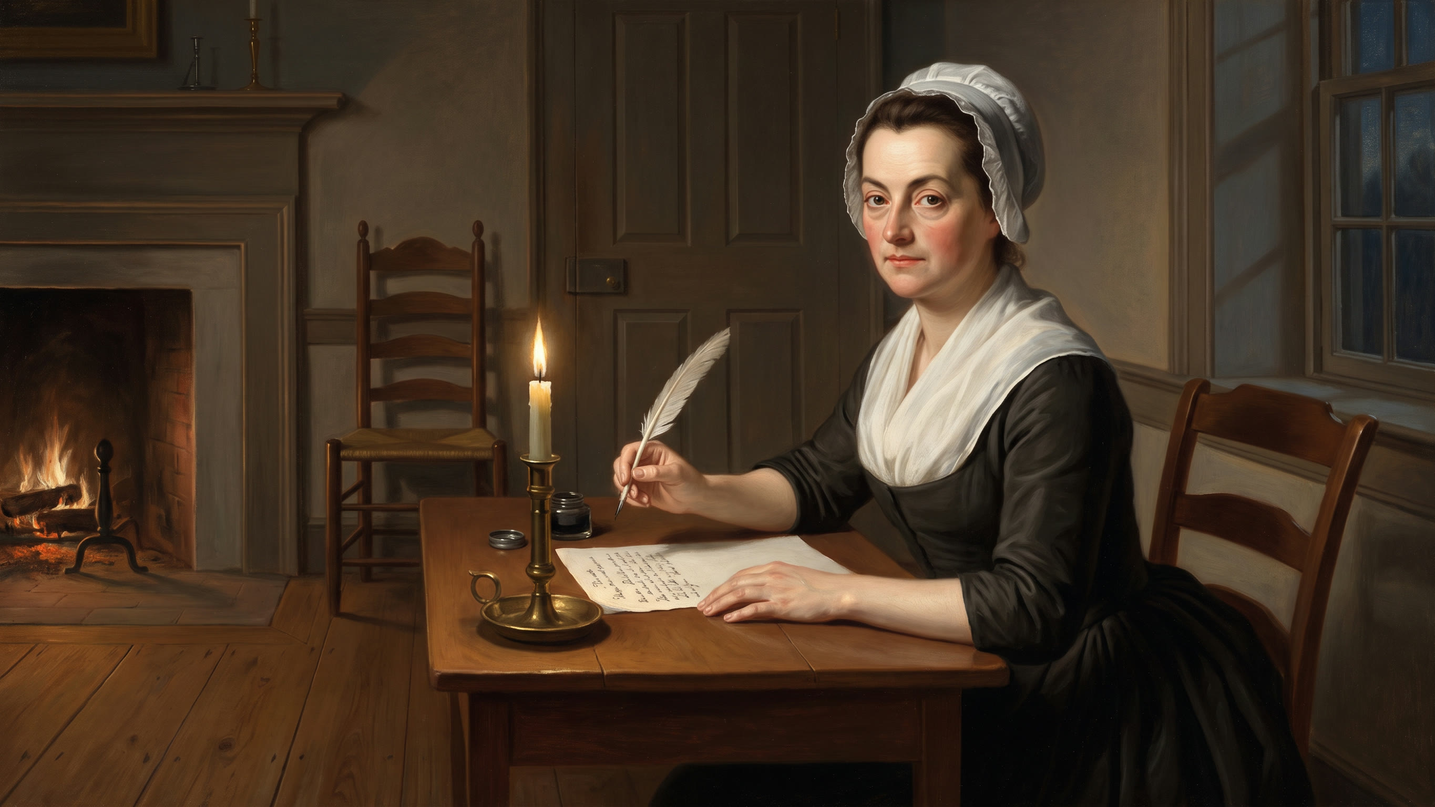
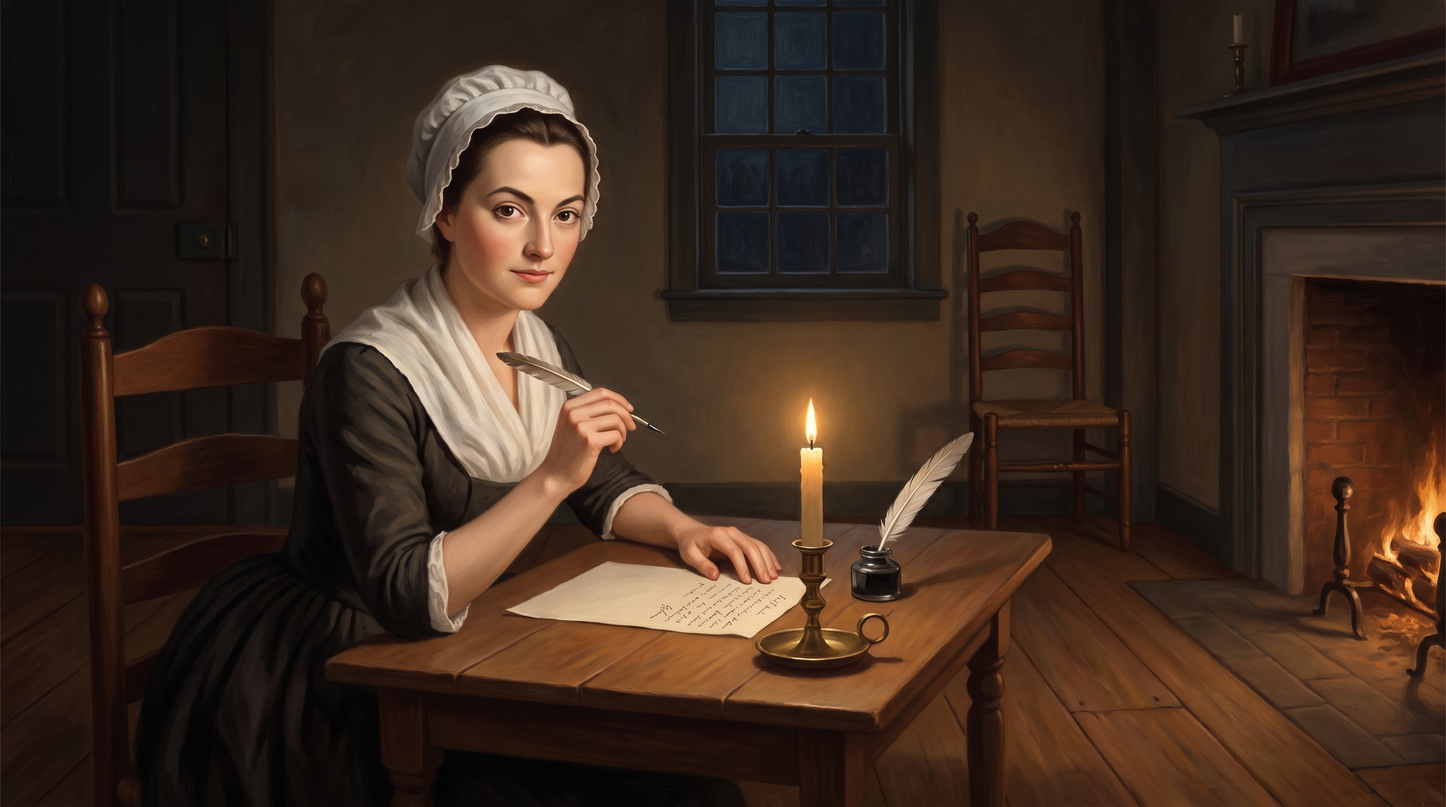
Dossier: regenerate the Abigail Adams scene (younger, closer to the Blyth pastel)

diff --git a/data/dossier/foundingScenes.ts b/data/dossier/foundingScenes.ts
@@ -162,7 +162,7 @@ const founderScenes: DossierScene[] = [
   },
   {
     id: 'recon-abigail-adams-letter-1776', roomId: 'r4', title: 'Abigail Adams writing to John, Braintree, March 1776',
-    basis: 'On 31 March 1776 Abigail Adams wrote from Braintree, Massachusetts, to John in Philadelphia: "I desire you would Remember the Ladies" (c-abigail, from the Massachusetts Historical Society edition), within a legal order in which a married woman had no separate legal identity (c-coverture). The room, the candle and the writing posture are generic staging after the Adams family\'s farmhouse; the letter on the table is shown only as illegible script. Her only portrait from near that time is Benjamin Blyth\'s pastel of about 1766 (public domain, she was about 22, the exhibit asset a-abigail-adams, a black-and-white photograph of the pastel); at 31 she is a reconstruction nine years older than the pastel. No other person is shown',
+    basis: 'On 31 March 1776 Abigail Adams wrote from Braintree, Massachusetts, to John in Philadelphia: "I desire you would Remember the Ladies" (c-abigail, from the Massachusetts Historical Society edition), within a legal order in which a married woman had no separate legal identity (c-coverture). The room, the candle and the writing posture are generic staging after the Adams family\'s farmhouse; the letter on the table is shown only as illegible script. Her only portrait from near that time is Benjamin Blyth\'s pastel of about 1766 (public domain, she was about 22, the exhibit asset a-abigail-adams, a black-and-white photograph of the pastel); at 31 she is a reconstruction nine years older than the pastel, painted (regenerated 2026-10-07 to read as a woman of about 30 rather than 40 or older) from the Blyth face structure, with Gilbert Stuart\'s portrait of her at about 55 or older (c. 1800-1815, National Gallery of Art, CC0) used as a second reference for bone structure only and not for age. It is a reconstruction of her likeness, not a documented portrait of her at 31. No other person is shown',
     claimIds: ['c-abigail', 'c-coverture'],
     spec: { style: STYLE_FOUNDER, aspect: '16:9',
       setting: 'a small plain parlour in the Adams farmhouse at Braintree, Massachusetts, in March 1776, wide pine floorboards, a plain wooden writing table with one lit candle in a brass stick, an inkwell and a goose quill, a sheet of paper covered in illegible script, a simple ladder-back chair, a small-paned window dark with late evening, a quiet fire glowing in a small brick hearth, no other people anywhere',
